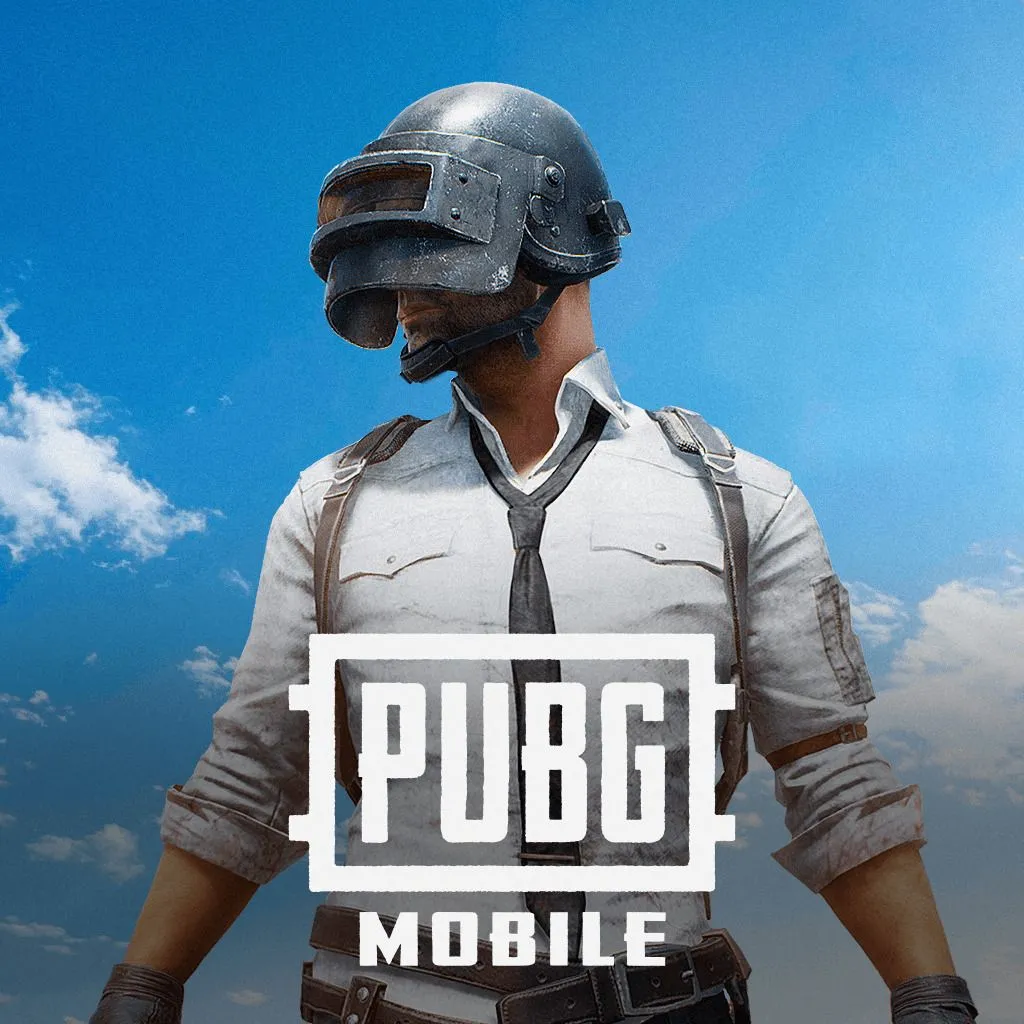
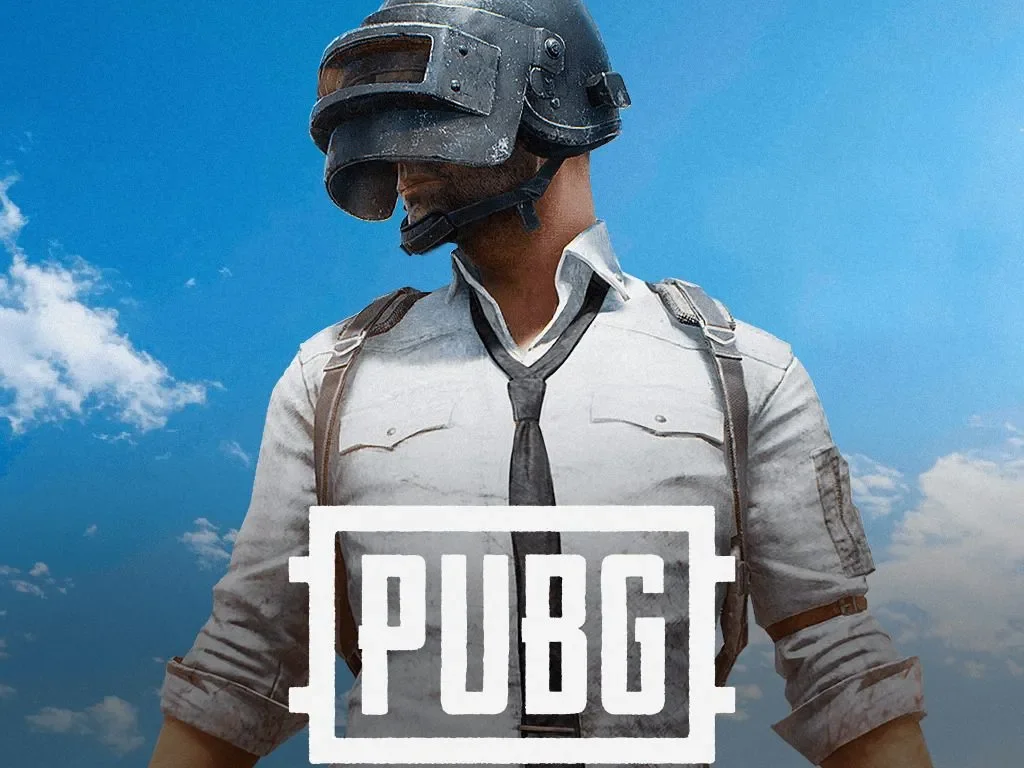
Update game cards with Cloudinary images for better performance and quality

diff --git a/bob website/src/pages/InstantGamingPage.tsx b/bob website/src/pages/InstantGamingPage.tsx
@@ -1,5 +1,5 @@
 import React, { useState, useMemo, useCallback, useEffect } from 'react';
-import { Star, Download, Shield, Headphones, ChevronDown, Filter } from 'lucide-react';
+import { Star, Download, Shield, Headphones, ChevronDown, Filter, Smartphone, Monitor, CreditCard } from 'lucide-react';
 import { Link } from 'react-router-dom';
 import { motion, AnimatePresence } from 'framer-motion';
 import Navigation from '../comps/Navigation';
@@ -93,7 +93,7 @@ const GamingMarketplace: React.FC = () => {
       platform: "PC (Steam)",
       price: "51.99 €",
       discount: "-80%",
-      image: "/games and offers images/netflix.webp",
+      image: "https://res.cloudinary.com/dzvgjeddx/image/upload/v1758837551/netflix_lcilx2.webp",
       bgColor: "bg-red-600",
       category: "subscriptions"
     },
@@ -133,7 +133,7 @@ const GamingMarketplace: React.FC = () => {
       platform: "PC & Mac (Steam)",
       price: "17.99 €",
       discount: "-50%",
-      image: "/games and offers images/Genshin-Impact-Logo.webp",
+      image: "https://res.cloudinary.com/dzvgjeddx/image/upload/v1758837551/Genshin-Impact-Logo_v2k8rt.webp",
       bgColor: "bg-red-800",
       category: "pc-games"
     },
@@ -163,7 +163,7 @@ const GamingMarketplace: React.FC = () => {
       platform: "PC (Steam)",
       price: "23.39 €",
       discount: "-67%",
-      image: "/games and offers images/football.webp",
+      image: "https://res.cloudinary.com/dzvgjeddx/image/upload/v1758837550/football_cafova.webp",
       bgColor: "bg-orange-600",
       category: "pc-games"
     },
@@ -173,7 +173,7 @@ const GamingMarketplace: React.FC = () => {
       platform: "PC (Epic)",
       price: "9.99 €",
       discount: "-67%",
-      image: "/games and offers images/clashofclans.webp",
+      image: "https://res.cloudinary.com/dzvgjeddx/image/upload/v1758837552/clashofclans_deycuo.webp",
       bgColor: "bg-teal-600",
       category: "apps"
     },
@@ -183,7 +183,7 @@ const GamingMarketplace: React.FC = () => {
       platform: "Mobile",
       price: "12.99 €",
       discount: "-30%",
-      image: "/games and offers images/blood strike.webp",
+      image: "https://res.cloudinary.com/dzvgjeddx/image/upload/v1758837551/blood_strike_b0cl0r.webp",
       bgColor: "bg-red-700",
       category: "apps"
     },
@@ -193,7 +193,7 @@ const GamingMarketplace: React.FC = () => {
       platform: "PC & Mobile",
       price: "4.99 €",
       discount: "-25%",
-      image: "/games and offers images/Discord-Nitro.webp",
+      image: "https://res.cloudinary.com/dzvgjeddx/image/upload/v1758837555/Discord-Nitro_mkdh2o.webp",
       bgColor: "bg-indigo-600",
       category: "subscriptions"
     },
@@ -203,7 +203,7 @@ const GamingMarketplace: React.FC = () => {
       platform: "PC & Mobile",
       price: "19.99 €",
       discount: "-40%",
-      image: "/games and offers images/infinity nikki.webp",
+      image: "https://res.cloudinary.com/dzvgjeddx/image/upload/v1758837551/infinity_nikki_tkd5wi.webp",
       bgColor: "bg-pink-600",
       category: "apps"
     },
@@ -223,7 +223,7 @@ const GamingMarketplace: React.FC = () => {
       platform: "Mobile",
       price: "6.99 €",
       discount: "-20%",
-      image: "/games and offers images/feefire.webp",
+      image: "https://res.cloudinary.com/dzvgjeddx/image/upload/v1758837556/feefire_efamzy.webp",
       bgColor: "bg-yellow-600",
       category: "apps"
     },
@@ -233,7 +233,7 @@ const GamingMarketplace: React.FC = () => {
       platform: "PC & Mobile",
       price: "15.99 €",
       discount: "-45%",
-      image: "/games and offers images/fortnite.webp",
+      image: "https://res.cloudinary.com/dzvgjeddx/image/upload/v1758837283/fortnite_zugje4.webp",
       bgColor: "bg-blue-700",
       category: "pc-games"
     },
@@ -308,10 +308,10 @@ const GamingMarketplace: React.FC = () => {
 
   // Filter options
   const filterOptions = [
-    { id: 'all', label: 'All', count: gameCards.length },
-    { id: 'apps', label: 'Apps', count: gameCards.filter(game => game.category === 'apps').length },
-    { id: 'pc-games', label: 'PC Games', count: gameCards.filter(game => game.category === 'pc-games').length },
-    { id: 'subscriptions', label: 'Subscriptions', count: gameCards.filter(game => game.category === 'subscriptions').length }
+    { id: 'all', label: 'All', count: gameCards.length, icon: Filter, color: 'cyan' },
+    { id: 'apps', label: 'Apps', count: gameCards.filter(game => game.category === 'apps').length, icon: Smartphone, color: 'green' },
+    { id: 'pc-games', label: 'PC Games', count: gameCards.filter(game => game.category === 'pc-games').length, icon: Monitor, color: 'blue' },
+    { id: 'subscriptions', label: 'Subscriptions', count: gameCards.filter(game => game.category === 'subscriptions').length, icon: CreditCard, color: 'purple' }
   ];
 
   return (
@@ -358,7 +358,7 @@ const GamingMarketplace: React.FC = () => {
         {/* Trending Section */}
         <div id="trending" className="mb-6 sm:mb-8">
           <div className="flex items-center mb-4">
-            <h2 className="text-xl sm:text-2xl font-bold">Trending</h2>
+            <h2 className="text-xl sm:text-2xl font-bold" style={{ fontFamily: 'Space Grotesk, sans-serif', fontWeight: 700 }}>TRENDING</h2>
             <span className="ml-2 text-gray-400">›</span>
           </div>
           
@@ -370,16 +370,20 @@ const GamingMarketplace: React.FC = () => {
                 onClick={() => setActiveFilter(option.id)}
                 className={`px-4 py-2 rounded-full text-sm font-medium transition-all duration-300 flex items-center gap-2 ${
                   activeFilter === option.id
-                    ? 'bg-cyan-500 text-white shadow-lg shadow-cyan-500/30'
-                    : 'bg-gray-800/50 text-gray-300 hover:bg-gray-700/50 hover:text-white border border-gray-700/50'
+                    ? `bg-${option.color}-500 text-white shadow-lg shadow-${option.color}-500/30`
+                    : `bg-${option.color}-500/20 text-${option.color}-400 hover:bg-${option.color}-500/30 hover:text-${option.color}-300 border border-${option.color}-500/30 hover:border-${option.color}-500/50`
                 }`}
               >
-                <Filter className="w-4 h-4" />
-                {option.label}
+                <option.icon className={`w-4 h-4 ${
+                  activeFilter === option.id
+                    ? 'text-white'
+                    : `text-${option.color}-400`
+                }`} />
+                <span style={{ fontFamily: 'Outfit, sans-serif', fontWeight: 600 }}>{option.label}</span>
                 <span className={`px-2 py-0.5 rounded-full text-xs ${
                   activeFilter === option.id
                     ? 'bg-white/20 text-white'
-                    : 'bg-gray-600/50 text-gray-400'
+                    : `bg-${option.color}-600/50 text-${option.color}-400`
                 }`}>
                   {option.count}
                 </span>
@@ -418,7 +422,6 @@ const GamingMarketplace: React.FC = () => {
                     alt={game.title}
                     className={`w-full h-full object-cover transition-all duration-300 ${
                       game.id === 'mobile-legends' ? 'object-bottom' : 
-                      game.id === 'pubg-mobile' ? 'object-bottom' : 
                       'object-center'
                     }`}
                     fetchPriority={index < 3 ? "high" : "low"}
@@ -426,9 +429,9 @@ const GamingMarketplace: React.FC = () => {
                 </div>
               </div>
               <div className="p-3 flex items-center justify-between">
-                <h3 className="font-semibold text-sm text-white truncate">{game.title}</h3>
-                <span className="text-xs font-bold text-cyan-400 hover:text-cyan-300 transition-colors">
-                  See More
+                <h3 className="font-semibold text-sm text-white truncate" style={{ fontFamily: 'Inter, sans-serif', fontWeight: 600 }}>{game.title}</h3>
+                <span className="text-xs font-bold text-cyan-400 hover:text-cyan-300 transition-colors" style={{ fontFamily: 'JetBrains Mono, monospace', fontWeight: 600 }}>
+                  SEE MORE
                 </span>
               </div>
               </Link>
@@ -448,8 +451,9 @@ const GamingMarketplace: React.FC = () => {
               <button
                 onClick={loadMoreCards}
                 className="bg-cyan-600 hover:bg-cyan-700 text-white px-6 py-3 rounded-lg transition-all duration-300 hover:shadow-lg hover:shadow-cyan-500/30"
+                style={{ fontFamily: 'Chakra Petch, sans-serif', fontWeight: 600 }}
               >
-                Load More Games
+                LOAD MORE GAMES
               </button>
             )}
           </div>
@@ -518,16 +522,16 @@ const GamingMarketplace: React.FC = () => {
         {/* Reviews Section */}
         <div id="reviews" className="mb-4 sm:mb-6">
           <div className="text-center mb-6 sm:mb-8">
-            <h2 className="text-2xl sm:text-3xl font-bold mb-4">What Our Gamers Say</h2>
+            <h2 className="text-2xl sm:text-3xl font-bold mb-4" style={{ fontFamily: 'Space Grotesk, sans-serif', fontWeight: 700 }}>WHAT OUR GAMERS SAY</h2>
             <div className="flex justify-center items-center space-x-2 mb-4">
               {[1, 2, 3, 4, 5].map((star) => (
                 <Star key={star} className="w-6 h-6 fill-current text-yellow-400" />
               ))}
-              <span className="text-xl font-bold ml-2">4.9/5</span>
+              <span className="text-xl font-bold ml-2" style={{ fontFamily: 'Inter, sans-serif', fontWeight: 800 }}>4.9/5</span>
             </div>
             <div className="mt-6">
-              <div className="inline-block bg-gradient-to-r from-red-500 to-red-600 text-white px-6 sm:px-8 py-3 rounded-full font-semibold shadow-lg shadow-red-500/50 hover:shadow-red-500/70 hover:scale-105 transition-all transform text-sm sm:text-base">
-                Join 2M+ Happy Gamers
+              <div className="inline-block bg-gradient-to-r from-red-500 to-red-600 text-white px-6 sm:px-8 py-3 rounded-full font-semibold shadow-lg shadow-red-500/50 hover:shadow-red-500/70 hover:scale-105 transition-all transform text-sm sm:text-base" style={{ fontFamily: 'Outfit, sans-serif', fontWeight: 700 }}>
+                JOIN 2M+ HAPPY GAMERS
               </div>
             </div>
           </div>
@@ -708,7 +712,7 @@ const GamingMarketplace: React.FC = () => {
       {/* Gamer Reviews Section Title */}
       <div id="game-reviews" className="max-w-7xl mx-auto px-4 sm:px-6 py-6 sm:py-8">
         <div className="flex items-center mb-6 sm:mb-8">
-          <h2 className="text-xl sm:text-2xl font-bold">Gamer reviews</h2>
+          <h2 className="text-xl sm:text-2xl font-bold" style={{ fontFamily: 'Space Grotesk, sans-serif', fontWeight: 700 }}>GAMER REVIEWS</h2>
           <span className="ml-2 text-gray-400">›</span>
         </div>
 
@@ -796,7 +800,7 @@ const GamingMarketplace: React.FC = () => {
       {/* FAQs Section */}
       <div id="faq" className="bg-black/20 py-8 sm:py-16 backdrop-blur-sm">
         <div className="max-w-4xl mx-auto px-4 sm:px-6">
-          <h2 className="text-2xl sm:text-3xl font-bold text-center mb-8 sm:mb-12">FAQs</h2>
+          <h2 className="text-2xl sm:text-3xl font-bold text-center mb-8 sm:mb-12" style={{ fontFamily: 'Space Grotesk, sans-serif', fontWeight: 700 }}>FAQs</h2>
           
           <div className="space-y-3 sm:space-y-4">
             {faqData.map((faq, index) => (

diff --git a/bob website/src/comps/Navigation.tsx b/bob website/src/comps/Navigation.tsx
@@ -1,5 +1,6 @@
 import React, { useState } from 'react';
-import { Monitor, Gamepad2, Smartphone, Menu, X } from 'lucide-react';
+import { Monitor, Smartphone, Menu, X } from 'lucide-react';
+import { FaPlaystation, FaXbox } from 'react-icons/fa';
 import { Link } from 'react-router-dom';
 
 const Navigation: React.FC = () => {
@@ -27,23 +28,23 @@ const Navigation: React.FC = () => {
         </nav>
 
         {/* Desktop Platform Icons */}
-        <div className="hidden md:flex items-center space-x-4">
-          <div className="flex items-center space-x-4 lg:space-x-6 text-sm">
-            <span className="flex items-center space-x-1 lg:space-x-2 hover:text-cyan-400 transition-colors cursor-pointer">
-              <Monitor className="w-4 h-4 lg:w-5 lg:h-5" />
-              <span className="hidden lg:inline">PC</span>
+        <div className="hidden md:flex items-center space-x-3">
+          <div className="flex items-center space-x-3 lg:space-x-4">
+            <span className="flex items-center space-x-2 px-3 py-2 rounded-lg bg-blue-500/20 hover:bg-blue-500/30 transition-all duration-300 cursor-pointer group border border-blue-500/30 hover:border-blue-500/50">
+              <Monitor className="w-5 h-5 lg:w-6 lg:h-6 text-blue-400 group-hover:text-blue-300" />
+              <span className="text-sm lg:text-base font-medium text-blue-400 group-hover:text-blue-300">PC</span>
             </span>
-            <span className="flex items-center space-x-1 lg:space-x-2 hover:text-cyan-400 transition-colors cursor-pointer">
-              <Gamepad2 className="w-4 h-4 lg:w-5 lg:h-5" />
-              <span className="hidden lg:inline">PSN</span>
+            <span className="flex items-center space-x-2 px-3 py-2 rounded-lg bg-blue-600/20 hover:bg-blue-600/30 transition-all duration-300 cursor-pointer group border border-blue-600/30 hover:border-blue-600/50">
+              <FaPlaystation className="w-5 h-5 lg:w-6 lg:h-6 text-blue-600 group-hover:text-blue-500" />
+              <span className="text-sm lg:text-base font-medium text-blue-600 group-hover:text-blue-500">PSN</span>
             </span>
-            <span className="flex items-center space-x-1 lg:space-x-2 hover:text-cyan-400 transition-colors cursor-pointer">
-              <Gamepad2 className="w-4 h-4 lg:w-5 lg:h-5" />
-              <span className="hidden lg:inline">Xbox</span>
+            <span className="flex items-center space-x-2 px-3 py-2 rounded-lg bg-green-500/20 hover:bg-green-500/30 transition-all duration-300 cursor-pointer group border border-green-500/30 hover:border-green-500/50">
+              <FaXbox className="w-5 h-5 lg:w-6 lg:h-6 text-green-500 group-hover:text-green-400" />
+              <span className="text-sm lg:text-base font-medium text-green-500 group-hover:text-green-400">Xbox</span>
             </span>
-            <span className="flex items-center space-x-1 lg:space-x-2 hover:text-cyan-400 transition-colors cursor-pointer">
-              <Smartphone className="w-4 h-4 lg:w-5 lg:h-5" />
-              <span className="hidden lg:inline">Mobile</span>
+            <span className="flex items-center space-x-2 px-3 py-2 rounded-lg bg-purple-500/20 hover:bg-purple-500/30 transition-all duration-300 cursor-pointer group border border-purple-500/30 hover:border-purple-500/50">
+              <Smartphone className="w-5 h-5 lg:w-6 lg:h-6 text-purple-400 group-hover:text-purple-300" />
+              <span className="text-sm lg:text-base font-medium text-purple-400 group-hover:text-purple-300">Mobile</span>
             </span>
           </div>
         </div>
@@ -96,21 +97,21 @@ const Navigation: React.FC = () => {
             {/* Mobile Platform Icons */}
             <div className="pt-4 border-t border-gray-700">
               <div className="grid grid-cols-2 gap-3">
-                <span className="flex items-center space-x-2 text-white hover:text-cyan-400 transition-colors cursor-pointer py-2">
-                  <Monitor className="w-5 h-5" />
-                  <span>PC</span>
+                <span className="flex items-center space-x-2 px-3 py-3 rounded-lg bg-blue-500/20 hover:bg-blue-500/30 transition-all duration-300 cursor-pointer group border border-blue-500/30 hover:border-blue-500/50">
+                  <Monitor className="w-6 h-6 text-blue-400 group-hover:text-blue-300" />
+                  <span className="font-medium text-blue-400 group-hover:text-blue-300">PC</span>
                 </span>
-                <span className="flex items-center space-x-2 text-white hover:text-cyan-400 transition-colors cursor-pointer py-2">
-                  <Gamepad2 className="w-5 h-5" />
-                  <span>PSN</span>
+                <span className="flex items-center space-x-2 px-3 py-3 rounded-lg bg-blue-600/20 hover:bg-blue-600/30 transition-all duration-300 cursor-pointer group border border-blue-600/30 hover:border-blue-600/50">
+                  <FaPlaystation className="w-6 h-6 text-blue-600 group-hover:text-blue-500" />
+                  <span className="font-medium text-blue-600 group-hover:text-blue-500">PSN</span>
                 </span>
-                <span className="flex items-center space-x-2 text-white hover:text-cyan-400 transition-colors cursor-pointer py-2">
-                  <Gamepad2 className="w-5 h-5" />
-                  <span>Xbox</span>
+                <span className="flex items-center space-x-2 px-3 py-3 rounded-lg bg-green-500/20 hover:bg-green-500/30 transition-all duration-300 cursor-pointer group border border-green-500/30 hover:border-green-500/50">
+                  <FaXbox className="w-6 h-6 text-green-500 group-hover:text-green-400" />
+                  <span className="font-medium text-green-500 group-hover:text-green-400">Xbox</span>
                 </span>
-                <span className="flex items-center space-x-2 text-white hover:text-cyan-400 transition-colors cursor-pointer py-2">
-                  <Smartphone className="w-5 h-5" />
-                  <span>Mobile</span>
+                <span className="flex items-center space-x-2 px-3 py-3 rounded-lg bg-purple-500/20 hover:bg-purple-500/30 transition-all duration-300 cursor-pointer group border border-purple-500/30 hover:border-purple-500/50">
+                  <Smartphone className="w-6 h-6 text-purple-400 group-hover:text-purple-300" />
+                  <span className="font-medium text-purple-400 group-hover:text-purple-300">Mobile</span>
                 </span>
               </div>
             </div>

diff --git a/bob website/src/pages/GamePage.tsx b/bob website/src/pages/GamePage.tsx
@@ -1,6 +1,6 @@
 import React, { useMemo, useState, useEffect } from 'react';
 import { useParams, Link } from 'react-router-dom';
-import { ArrowLeft, Download, Shield, Gamepad2, Smartphone, Monitor, Headphones as HeadphonesIcon } from 'lucide-react';
+import { ArrowLeft, Download, Shield, Gamepad2, Smartphone, Monitor, Headphones as HeadphonesIcon, X, ZoomIn } from 'lucide-react';
 import Navigation from '../comps/Navigation';
 import Footer from '../comps/Footer';
 import LoadingScreen from '../comps/LoadingScreen';
@@ -36,6 +36,7 @@ const GamePage: React.FC = () => {
   const { gameId } = useParams<{ gameId: string }>();
   const [isLoading, setIsLoading] = useState(true);
   const [loadingProgress, setLoadingProgress] = useState(0);
+  const [isImageModalOpen, setIsImageModalOpen] = useState(false);
 
   // Game data - this should match the data from your main page
   const gameData = useMemo(() => {
@@ -537,17 +538,25 @@ const GamePage: React.FC = () => {
            <div className="grid grid-cols-1 lg:grid-cols-2 gap-6 mb-8">
             {/* Game Image */}
             <div className="relative">
-               <div className={`relative h-72 sm:h-80 lg:h-96 ${gameData.bgColor} rounded-xl overflow-hidden shadow-2xl`}>
-                <div className="absolute inset-0 bg-black/20"></div>
-                <div className="absolute inset-0 flex items-center justify-center p-4">
-                  <img 
-                    src={gameData.image} 
-                    alt={gameData.title}
-                    className="max-w-full max-h-full object-contain drop-shadow-lg"
-                    loading="eager"
-                    decoding="async"
-                    fetchPriority="high"
-                  />
+               <div className={`relative ${gameData.bgColor} rounded-xl overflow-hidden shadow-2xl`}>
+                <div className="relative bg-black/20 p-4">
+                  <div 
+                    className="relative cursor-pointer group"
+                    onClick={() => setIsImageModalOpen(true)}
+                  >
+                    <img 
+                      src={gameData.image} 
+                      alt={gameData.title}
+                      className="w-full h-auto object-contain drop-shadow-lg transition-transform duration-300 group-hover:scale-105"
+                      loading="eager"
+                      decoding="async"
+                      fetchPriority="high"
+                    />
+                    {/* Zoom overlay */}
+                    <div className="absolute inset-0 bg-black/0 group-hover:bg-black/20 transition-all duration-300 flex items-center justify-center">
+                      <ZoomIn className="w-8 h-8 text-white opacity-0 group-hover:opacity-100 transition-opacity duration-300" />
+                    </div>
+                  </div>
                 </div>
               </div>
                
@@ -793,6 +802,38 @@ const GamePage: React.FC = () => {
           <Footer />
         </div>
       </div>
+
+      {/* Image Modal */}
+      {isImageModalOpen && (
+        <div 
+          className="fixed inset-0 z-50 flex items-center justify-center bg-black/90 backdrop-blur-sm"
+          onClick={() => setIsImageModalOpen(false)}
+        >
+          <div className="relative max-w-4xl max-h-[90vh] p-4">
+            {/* Close button */}
+            <button
+              onClick={() => setIsImageModalOpen(false)}
+              className="absolute top-2 right-2 z-10 bg-black/50 hover:bg-black/70 text-white rounded-full p-2 transition-all duration-300"
+            >
+              <X className="w-6 h-6" />
+            </button>
+            
+            {/* Modal image */}
+            <img 
+              src={gameData.image} 
+              alt={gameData.title}
+              className="max-w-full max-h-full object-contain rounded-lg shadow-2xl"
+              onClick={(e) => e.stopPropagation()}
+            />
+            
+            {/* Image title */}
+            <div className="absolute bottom-4 left-4 right-4 bg-black/70 backdrop-blur-sm rounded-lg p-3">
+              <h3 className="text-white text-lg font-semibold">{gameData.title}</h3>
+              <p className="text-gray-300 text-sm">Click outside to close</p>
+            </div>
+          </div>
+        </div>
+      )}
     </div>
   );
 };

diff --git a/bob website/index.html b/bob website/index.html
@@ -6,6 +6,10 @@
     <link rel="icon" type="image/x-icon" href="/favicon.ico" />
     <meta name="viewport" content="width=device-width, initial-scale=1.0" />
     <title>Bob Store - Gaming & Digital Services</title>
+    <!-- Google Fonts -->
+    <link rel="preconnect" href="https://fonts.googleapis.com">
+    <link rel="preconnect" href="https://fonts.gstatic.com" crossorigin>
+    <link href="https://fonts.googleapis.com/css2?family=Space+Grotesk:wght@300;400;500;600;700&family=Inter:wght@300;400;500;600;700;800;900&family=JetBrains+Mono:wght@400;500;600;700&family=Outfit:wght@300;400;500;600;700;800;900&family=Chakra+Petch:wght@300;400;500;600;700&display=swap" rel="stylesheet">
     <link rel="preload" as="image" href="/games and offers images/Genshin-Impact-Logo.webp" />
     <link rel="preload" as="image" href="/games and offers images/league.webp" />
     <link rel="preload" as="image" href="/games and offers images/pubgmobile.webp" />
